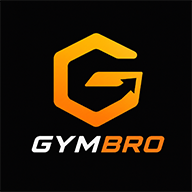
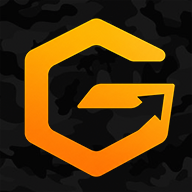
Updates

diff --git a/sw.js b/sw.js
@@ -1,1 +1,1 @@
-if(!self.define){let e,n={};const s=(s,i)=>(s=new URL(s+".js",i).href,n[s]||new Promise(n=>{if("document"in self){const e=document.createElement("script");e.src=s,e.onload=n,document.head.appendChild(e)}else e=s,importScripts(s),n()}).then(()=>{let e=n[s];if(!e)throw new Error(`Module ${s} didn’t register its module`);return e}));self.define=(i,o)=>{const c=e||("document"in self?document.currentScript.src:"")||location.href;if(n[c])return;let r={};const t=e=>s(e,c),a={module:{uri:c},exports:r,require:t};n[c]=Promise.all(i.map(e=>a[e]||t(e))).then(e=>(o(...e),r))}}define(["./workbox-e4022e15"],function(e){"use strict";self.skipWaiting(),e.clientsClaim(),e.precacheAndRoute([{url:"registerSW.js",revision:"a073289e179ea191a1f15aee82c28d90"},{url:"index.html",revision:"238c742cd464fa91aa3a1f3029a47c26"},{url:"icons/icon-512.png",revision:"6119d66f7f60d9193cd47dfadbc491ee"},{url:"icons/icon-192.png",revision:"46b62040a9bd0cb72b47d9888b5c8828"},{url:"icons/apple-touch-icon.png",revision:"6a8a84de47385ccdea662ed464aca9fb"},{url:"assets/Logo.png",revision:null},{url:"assets/index-DPavyVo2.css",revision:null},{url:"assets/index-CZf77J0y.js",revision:null},{url:"manifest.webmanifest",revision:"b572fc13b2d6c9d1e044bbdac9d40f87"}],{}),e.cleanupOutdatedCaches(),e.registerRoute(new e.NavigationRoute(e.createHandlerBoundToURL("index.html"))),e.registerRoute(/^https:\/\/.*\.supabase\.co\/.*/i,new e.NetworkFirst({cacheName:"supabase-cache",networkTimeoutSeconds:10,plugins:[new e.ExpirationPlugin({maxEntries:50,maxAgeSeconds:86400})]}),"GET")});
+if(!self.define){let e,n={};const s=(s,i)=>(s=new URL(s+".js",i).href,n[s]||new Promise(n=>{if("document"in self){const e=document.createElement("script");e.src=s,e.onload=n,document.head.appendChild(e)}else e=s,importScripts(s),n()}).then(()=>{let e=n[s];if(!e)throw new Error(`Module ${s} didn’t register its module`);return e}));self.define=(i,o)=>{const r=e||("document"in self?document.currentScript.src:"")||location.href;if(n[r])return;let c={};const t=e=>s(e,r),l={module:{uri:r},exports:c,require:t};n[r]=Promise.all(i.map(e=>l[e]||t(e))).then(e=>(o(...e),c))}}define(["./workbox-e4022e15"],function(e){"use strict";self.skipWaiting(),e.clientsClaim(),e.precacheAndRoute([{url:"registerSW.js",revision:"a073289e179ea191a1f15aee82c28d90"},{url:"index.html",revision:"238c742cd464fa91aa3a1f3029a47c26"},{url:"icons/icon-512.png",revision:"2b76771714c6758a569c0cbeec58a3c6"},{url:"icons/icon-192.png",revision:"09a91ef9f94b6f87295897d66a221e2f"},{url:"icons/apple-touch-icon.png",revision:"0ce223f7ee4bf749b78f3b24f92d4496"},{url:"assets/Logo.png",revision:null},{url:"assets/index-DPavyVo2.css",revision:null},{url:"assets/index-CZf77J0y.js",revision:null},{url:"manifest.webmanifest",revision:"b572fc13b2d6c9d1e044bbdac9d40f87"}],{}),e.cleanupOutdatedCaches(),e.registerRoute(new e.NavigationRoute(e.createHandlerBoundToURL("index.html"))),e.registerRoute(/^https:\/\/.*\.supabase\.co\/.*/i,new e.NetworkFirst({cacheName:"supabase-cache",networkTimeoutSeconds:10,plugins:[new e.ExpirationPlugin({maxEntries:50,maxAgeSeconds:86400})]}),"GET")});
